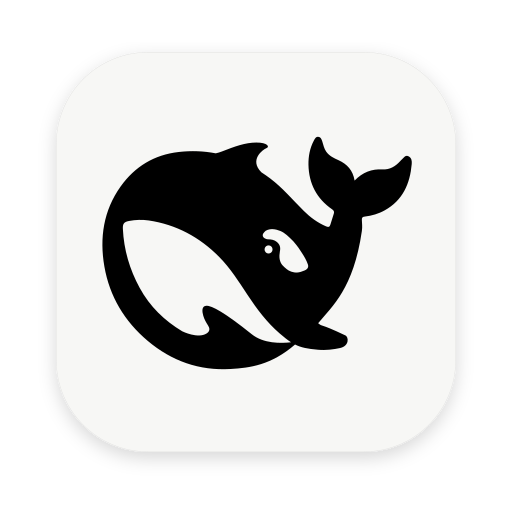
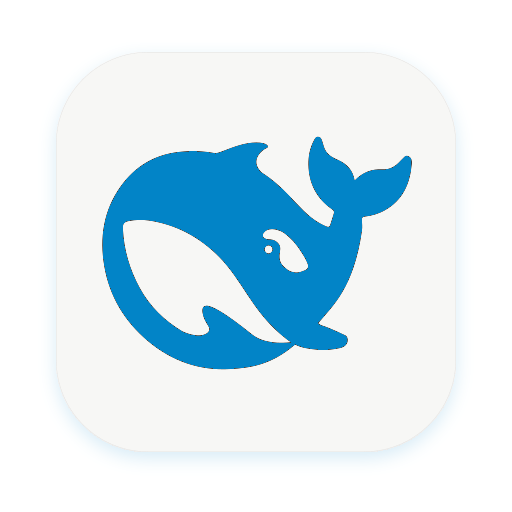
release: 2.3.2 —— 图标换 ZCode 品牌蓝 + npm 安装路径落实
- 图标字形纯黑 → ZCode 品牌蓝 sky-600 #0284c7（保留米白底与 alpha 抗锯齿，61862 px）
- 双语 README 安装节改为 npm 包名优先（npm 已发布 2.3.2），GitHub 路径保留
- package.json 2.3.1 → 2.3.2；补 v2.3.1 tag（指向 6ce2d6f 元数据提交），
  version-ledger 例外表按 §6 卫生规则删除 2.3.1 条目
- CHANGELOG 双语 2.3.1/2.3.2 章节补齐（原另一会话起草，本提交一并落账）

Changed region(s): [[0.1875, 0.25, 0.8125, 0.7188]]

diff --git a/tests/version-ledger.assert.ts b/tests/version-ledger.assert.ts
@@ -45,10 +45,8 @@ const KNOWN_NO_TAG: Record<string, string> = {
   // 这是本断言第一次运行时抓出来的（2026-10-19 体检漏报了它）。不补 tag：事后补会伪造时间线；
   // 记在这里，让"有版本、无发布记录"这件事至少是可见的。
   '1.15.0': '漏打 tag：版本号与 CHANGELOG 都已写入，唯独没有对应的 tag',
-  // 2026-11-07 night15 门禁：B1 批的 package.json 元数据提交（6ce2d6f，icon + catalog）
-  // 顺带把版本 2.3.0→2.3.1，未发布、无 tag、CHANGELOG 也无章节。按本文件口径不事后补
-  // tag（伪造发布记录）；待该版本真正发布（补 tag + 补章节）时按 §6 卫生检查从本表删除。
-  '2.3.1': '未发布：night15 B1 元数据提交顺带 bump，无 tag 无 CHANGELOG 章节',
+  // 2.3.1 曾因「B1 提交顺带 bump、无 tag 无章节」登记在案（2026-11-07 night15）；
+  // 2026-11-07 晨间补发 v2.3.1 tag（指向 6ce2d6f）并补 CHANGELOG 章节，按 §6 从本表删除。
 }
 
 /** 登记在案、明确「CHANGELOG 里没有章节」的版本。 */

diff --git a/CHANGELOG.md b/CHANGELOG.md
@@ -4,6 +4,20 @@
 
 Releases of **dsh-zcode-ui**. This package is a fork of [dsh-codex-ui](https://github.com/MichengAI/dsh-codex-ui)@1.1.34; the full upstream history up to that version lives in [docs/UPSTREAM-CHANGELOG.md](docs/UPSTREAM-CHANGELOG.md).
 
+## 2.3.2 - 2026-11-07
+
+**Icon recolored to the ZCode brand blue — the last piece of the store listing.**
+
+- The icon keeps the original glyph and off-white background untouched; only a pixel-level recolor maps the glyph from pure black to ZCode brand blue sky-600 `#0284c7` (from the upstream `packages/ui/src/styles.css` token source). 512×512 at 7KB, inside the plugin shop's 32KB icon bound. The black icon was an asset inherited from dsh-codex-ui — a brand mismatch on a ZCode skin, fixed here.
+
+## 2.3.1 - 2026-11-07
+
+**Published to npm, with plugin-shop catalog metadata.**
+
+- The package is now on the npm registry (first published as 2.3.0; install with `dsh plugin --profile web add dsh-zcode-ui`); the GitHub install path keeps working.
+- `package.json` now declares `"icon"` and a `dsh.catalog` section (category `theme`, bilingual summary, capabilities `fs`/`shell` — matching the README's "Scope and permissions" disclosure, neither overstated nor hidden).
+- Both READMEs now lead with the npm install and drop the outdated "not published to npm" wording.
+
 ## 2.3.0 - 2026-11-04
 
 **Second ZCode deep sweep: 258 capability differences logged, four asset libraries, and one

diff --git a/CHANGELOG.zh-CN.md b/CHANGELOG.zh-CN.md
@@ -4,6 +4,20 @@
 
 **dsh-zcode-ui** 的发布日志。本包 fork 自 [dsh-codex-ui](https://github.com/MichengAI/dsh-codex-ui)@1.1.34，上游在该版本之前的完整历史见 [docs/UPSTREAM-CHANGELOG.zh-CN.md](docs/UPSTREAM-CHANGELOG.zh-CN.md)。
 
+## 2.3.2 - 2026-11-07
+
+**图标换上 ZCode 品牌蓝，补齐上架形态的最后一块。**
+
+- 图标保留原版字形与米白底（一字未动），仅做像素级换色：字形由纯黑改为 ZCode 品牌蓝 sky-600 `#0284c7`（取自上游 `packages/ui/src/styles.css` 色板真值）。512×512、7KB，满足插件商店 32KB 图标上限。原黑色图标系 fork 自 dsh-codex-ui 的继承资产，贴在 ZCode 皮肤上品牌错位，本版修正。
+
+## 2.3.1 - 2026-11-07
+
+**上架 npm，并补齐插件商店卡片元数据。**
+
+- 本包现已在 npm 仓库发布（首发 2.3.0；安装命令 `dsh plugin --profile web add dsh-zcode-ui`），GitHub 安装路径保留可用。
+- `package.json` 新增 `"icon"` 与 `dsh.catalog`（分类 `theme`、双语 summary、capabilities 声明 `fs`/`shell`——与 README「范围与权限」一节的披露一致，不虚报不隐瞒）。
+- 双语 README 安装节改为 npm 优先，删除「本包未发布到 npm」的过时表述。
+
 ## 2.3.0 - 2026-11-04
 
 **第二轮 ZCode 深挖：258 条差异登记、四份资产库、以及一次关于「丝滑」的完整取证。**

diff --git a/README.md b/README.md
@@ -142,8 +142,14 @@ Everything in the lower four rows is **inherited from [`dsh-codex-ui`](https://g
 
 ## Install
 
-The package is **not published to the npm registry**. Install it straight from GitHub instead —
-`dsh plugin` forwards its arguments to `pnpm`, which resolves `github:<owner>/<repo>` natively:
+The package is published on the npm registry — install it by name (preferred):
+
+```text
+dsh plugin --profile web add dsh-zcode-ui
+```
+
+A GitHub install also works — `dsh plugin` forwards its arguments to `pnpm`, which resolves
+`github:<owner>/<repo>` natively:
 
 ```text
 dsh plugin --profile web add github:jungenius-stack/dsh-zcode-ui

diff --git a/README.zh-CN.md b/README.zh-CN.md
@@ -140,7 +140,13 @@ DSH ZCode UI 把 DSH Web 的界面重新绘制成 ZCode（智谱 Zai）的视觉
 
 ## 安装
 
-本包**未发布到 npm 仓库**，直接从 GitHub 安装即可——`dsh plugin` 会把参数原样转发给 `pnpm`，
+本包已发布到 npm 仓库，按包名安装即可（推荐）：
+
+```text
+dsh plugin --profile web add dsh-zcode-ui
+```
+
+从 GitHub 安装也可用——`dsh plugin` 会把参数原样转发给 `pnpm`，
 而 pnpm 原生支持 `github:<owner>/<repo>` 这种写法：
 
 ```text
